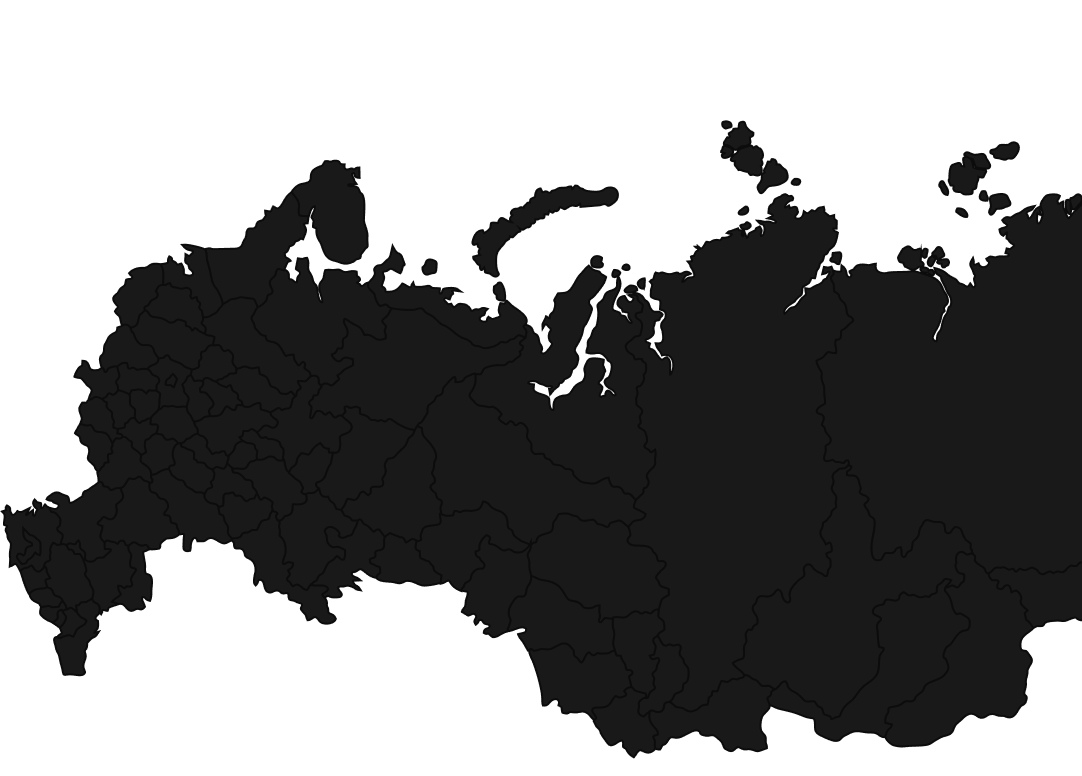
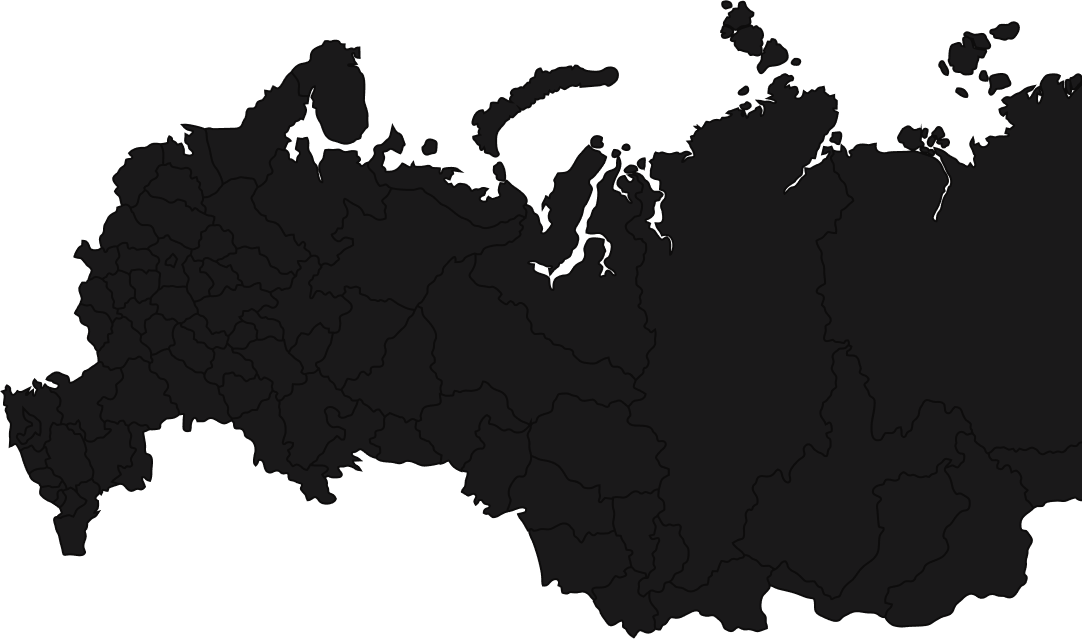
fix: map changed image

diff --git a/components/home/Contacts/Contacts.tsx b/components/home/Contacts/Contacts.tsx
@@ -25,7 +25,7 @@ export const Contacts = () => {
         </h3>
       </div>
 
-      <div className="flex items-center md:justify-start lg:mb-50">
+      <div className="flex items-center md:justify-start lg:mb-50 lg:w-screen">
         <div className="flex flex-col max-w-87 w-[22%]">
           <p className="text-neutral-bright-beginning font-medium text-[16px] lg:text-[18px]  leading-5 lg:leading-6 text-center md:text-left mb-8">
             {t("contacts.address")}
@@ -55,7 +55,7 @@ export const Contacts = () => {
             </a>
           </div>
         </div>
-        <div className="hidden md:block relative max-w-353 w-[80%] z-0 pointer-events-none lg:translate-x-[20%]">
+        <div className="hidden md:block relative max-w-353 w-[80%] z-0 pointer-events-none">
           <div className="mx-auto">
             <Image
               src="/images/map-big.png"
@@ -64,7 +64,7 @@ export const Contacts = () => {
               height={776}
               className="w-full h-auto mx-auto max-w-353"
             />
-            <div className="absolute w-3 h-3 rounded-full bg-brand-400 bottom-[22%] left-[4%] shadow-[0_0_0_4px_rgba(38,199,255,0.3)] animate-pulse"></div>
+            <div className="absolute w-3 h-3 rounded-full bg-brand-400 bottom-[22%] left-[5.5%] shadow-[0_0_0_4px_rgba(38,199,255,0.3)] animate-pulse"></div>
           </div>
         </div>
       </div>